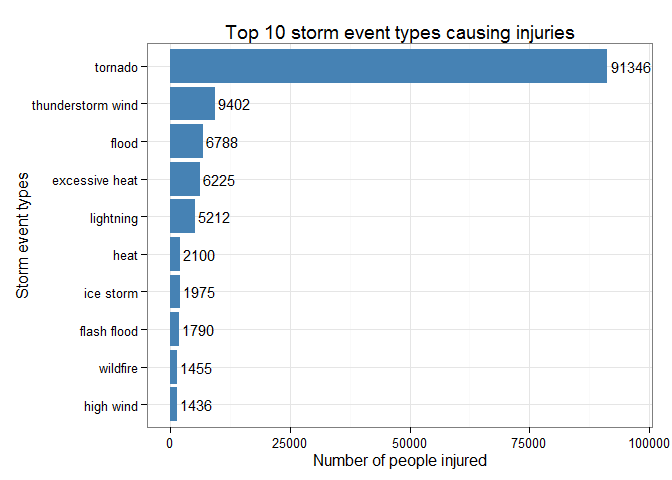
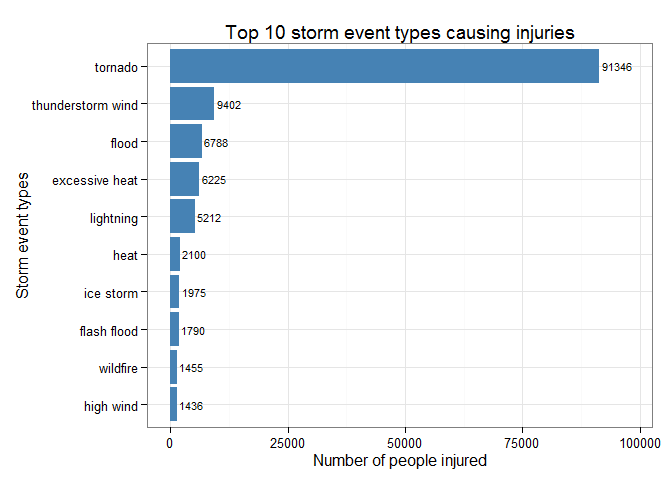
Add final :-) .md and .Rmd report version

diff --git a/noaa_database_analysis.md b/noaa_database_analysis.md
@@ -100,7 +100,7 @@ event type term *Thunderstorm Wind*:
                  caption = "<b>Table 1:</b> Examples of event type name modifications"), type = 'html', include.rownames = FALSE)
 
 <!-- html table generated in R 3.1.0 by xtable 1.7-3 package -->
-<!-- Sun Jun 29 21:02:32 2014 -->
+<!-- Mon Jun 30 00:22:14 2014 -->
 <TABLE border=1>
 <CAPTION ALIGN="bottom"> 
 <b>Table 1:</b> Examples of event type name modifications
@@ -595,7 +595,7 @@ simple quantitative approach consisting of 5 steps:
                  caption = "<b>Table 2:</b> The 47 event types with the highest observation percentage contribution", digits = 7), type = 'html', include.rownames = FALSE)
 
 <!-- html table generated in R 3.1.0 by xtable 1.7-3 package -->
-<!-- Sun Jun 29 21:02:33 2014 -->
+<!-- Mon Jun 30 00:22:15 2014 -->
 <TABLE border=1>
 <CAPTION ALIGN="bottom"> 
 <b>Table 2:</b> The 47 event types with the highest observation
@@ -1141,8 +1141,6 @@ This can be shown even better when plotting the grouped data.
     storms_by_evtype_df <- rbind(storms_by_evtype_df, c(0, 0, 0, 0, 0)) %>%
       arrange(cumb_contrib_in_percent)
 
-<figure>
-
     ggplot(storms_by_evtype_df, aes(rank, cumb_contrib_in_percent)) + 
       geom_line(color = 'steelblue') + 
       geom_vline(xintercept = 69) +
@@ -1154,7 +1152,7 @@ This can be shown even better when plotting the grouped data.
 
 ![plot of chunk
 cumulativeContributionFunction](./noaa_database_analysis_files/figure-markdown_strict/cumulativeContributionFunction.png)
-<figcaption>
+<p>
 **Figure 1: Percentage contribution of each event type to total amount
 of observations.** The x-axis represents all remaining 891 event types
 (after the first pre-processing step) in the dataset expressed in
@@ -1165,8 +1163,7 @@ contribute a tiny fraction to the overall percentage completeness of the
 observations, due to the fact that less than 6 observations belong to
 each of those event types. The last 449 event types even only contribute
 a single observation.
-</figcaption>
-</figure>
+</p>
 
 
     # Remove dummy row
@@ -1182,7 +1179,7 @@ We decide to include the first 69 ordered event types which account for
           include.rownames = FALSE)
 
 <!-- html table generated in R 3.1.0 by xtable 1.7-3 package -->
-<!-- Sun Jun 29 21:02:33 2014 -->
+<!-- Mon Jun 30 00:22:15 2014 -->
 <TABLE border=1>
 <TR> <TH> 
 EVTYPE
@@ -1413,8 +1410,6 @@ We will examine both variables in detail:
     ##    Min. 1st Qu.  Median    Mean 3rd Qu.    Max. 
     ##     0.0     0.0     0.0     0.2     0.0  1700.0
 
-<figure>
-
     par(mfrow = c(1,2))
     with(storms_df, {
       hist(injuries, col='steelblue', border = 'steelblue', xlab = 'Injuries', 
@@ -1425,18 +1420,15 @@ We will examine both variables in detail:
 
 ![plot of chunk
 inj\_fat\_histograms](./noaa_database_analysis_files/figure-markdown_strict/inj_fat_histograms.png)
-<figcaption>
+<p>
 **Figure 2: Distribution of injuries and fatalities** **(a)** Injuries
 are right skewed **(b)** Fatalities are right skewed. In the majority of
 the reported storm events either 0 or a tiny number of people were
 injured or killed
-</figcaption>
-</figure>
+</p>
 
 We take a look at the total amount of persons injured or killed by event
 type:
-
-<figure>
 
     inj_fat_by_evtype_df <- group_by(storms_df, evtype) %>%
       summarize(
@@ -1448,32 +1440,31 @@ type:
 
     ggplot(inj_fat_by_evtype_df[1:10, ], aes(reorder(evtype, injuries), injuries)) + 
       geom_bar(stat='identity', fill = 'steelblue') +
-      geom_text(aes(label = injuries), size = 4, hjust = -0.1) +
+      geom_text(aes(label = injuries), size = 3, hjust = -0.1) +
       xlab('Storm event types') +
       ylab('Number of people injured') +
       ggtitle('Top 10 storm event types causing injuries') +
-      ylim(0, max(inj_fat_by_evtype_df$injuries * 1.05)) +
+      ylim(0, max(inj_fat_by_evtype_df$injuries * 1.07)) +
       coord_flip() +
       theme_bw()
 
 ![plot of chunk
 injuries\_barplot](./noaa_database_analysis_files/figure-markdown_strict/injuries_barplot.png)
-<figcaption>
-<b>Figure 3: Injuries by storm event type in the United States (1950 -
+<p>
+**Figure 3:** Injuries by storm event type in the United States (1950 -
 2011)</b> Tornado ranks first with 91346 caused injuries followed by
 thunderstorm wind with 9402 persons injured. The only other storm events
 above the 5000 threshold are flood (6788), excessive heat (6225), and
 lightning (5212).
-</figcaption>
-</figure>
+</p>
 
-<figure>
+
 
     inj_fat_by_evtype_df <- arrange(inj_fat_by_evtype_df, desc(fatalities))
 
     ggplot(inj_fat_by_evtype_df[1:10, ], aes(reorder(evtype, fatalities), fatalities)) + 
       geom_bar(stat='identity', fill = 'steelblue') +
-      geom_text(aes(label = fatalities), size = 4 , hjust = -0.1) +
+      geom_text(aes(label = fatalities), size = 3 , hjust = -0.1) +
       xlab('Storm event types') +
       ylab('Number of people killed') +
       ggtitle('Top 10 storm event types causing fatalities') +
@@ -1483,21 +1474,18 @@ lightning (5212).
 
 ![plot of chunk
 fatalities\_barplot](./noaa_database_analysis_files/figure-markdown_strict/fatalities_barplot.png)
-<figcaption>
-<b>Figure 4: Fatalities by storm event type in the United States (1950 -
-2011)</b> Tornado ranks first with 5633 caused fatalities followed by
+<p>
+**Figure 4: Fatalities by storm event type in the United States (1950 -
+2011)** Tornado ranks first with 5633 caused fatalities followed by
 excessive heat with 1894 persons killed. The only other storm events
 which have killed more than 500 persons in the last six decaces are
 flash flood (975), heat (935), lightning (806) thunderstorm wind (703),
 and rip current (518).
-</figcaption>
-</figure>
+</p>
 
 
 Next, we examine how the numbers of people injured / people killed did
 change over time:
-
-<figure>
 
     inj_fat_by_year_df <- group_by(storms_df, year) %>%
       summarize(
@@ -1518,21 +1506,18 @@ change over time:
 
 ![plot of chunk
 inj\_fat\_time\_series](./noaa_database_analysis_files/figure-markdown_strict/inj_fat_time_series.png)
-<figcaption>
-<b>Figure 5: </b>Both outcomes show a similar pattern highlighted by the
+<p>
+**Figure 5:** Both outcomes show a similar pattern highlighted by the
 smoother: Injuries and fatalities both drop at the end of the 70s before
 they start increasing again. In addition, the absolute numbers show a
 sudden increase followed by a quick drop for both outcomes at the end of
 the 90s. However, 2011 again shows a sudden rise for injuries and
 fatalities.
-</figcaption>
-</figure>
+</p>
 
 The general pattern which the smoother highlights in the time series
 plot above, can partly be explained with the progression of available
 observations per year:
-
-<figure>
 
     obs_by_year_df <- group_by(storms_df, year) %>%
       summarize(
@@ -1548,13 +1533,12 @@ observations per year:
 
 ![plot of chunk
 obs\_time\_series](./noaa_database_analysis_files/figure-markdown_strict/obs_time_series.png)
-<figcaption>
-<b>Figure 6: </b>There was a slight increase of reported observations
-pear year till 1988 (7252 obs). 1989 (10410) marks the first year with
-more than 10000 reported observations. A massive rise started in the mid
-90s with 2011 as the new peak with 62134 observations.
-</figcaption>
-</figure>
+<p>
+**Figure 6:** There was a slight increase of reported observations pear
+year till 1988 (7254 obs). 1989 (10407) marks the first year with more
+than 10000 reported observations. A massive rise started in the mid 90s
+with 2011 as the new peak with 60091 observations.
+</p>
 
 In the last step, we show how injuries and fatalities are distributed
 among the different U.S. federal states.
@@ -1609,7 +1593,7 @@ among the different U.S. federal states.
 ![plot of chunk
 inj\_chloropleth](./noaa_database_analysis_files/figure-markdown_strict/inj_chloropleth.png)
 <p>
-<b>Figure 7</b>: In general, more people in the south east / east got
+**Figure 7**: In general, more people in the south east / east got
 injured in storm events compared to the rest of the country. Most of the
 people got injured in Texas.
 </p>
@@ -1643,7 +1627,7 @@ people got injured in Texas.
 ![plot of chunk
 fat\_chloropleth](./noaa_database_analysis_files/figure-markdown_strict/fat_chloropleth.png)
 <p>
-<b>Figure 8</b>: In general, more people in the east were killed during
+**Figure 8**: In general, more people in the east were killed during
 storm events compared to the rest of the country. Most of the people
 were killed in Texas and Illinois.
 </p>
